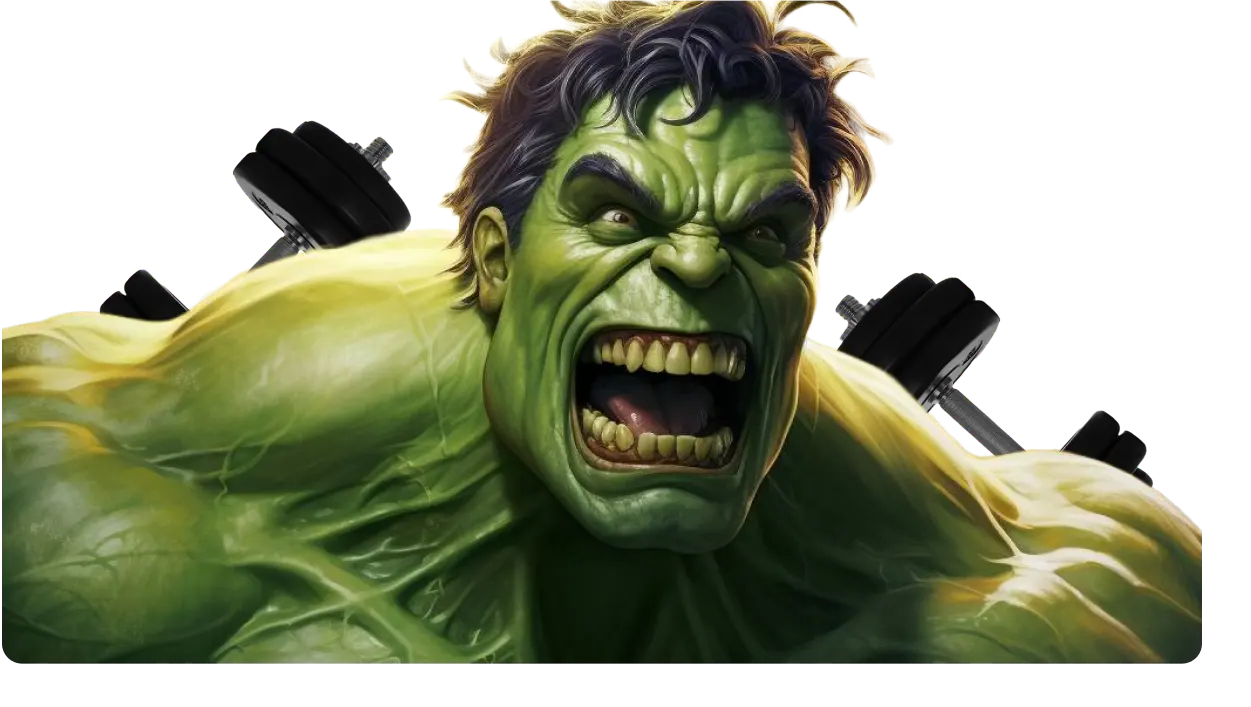
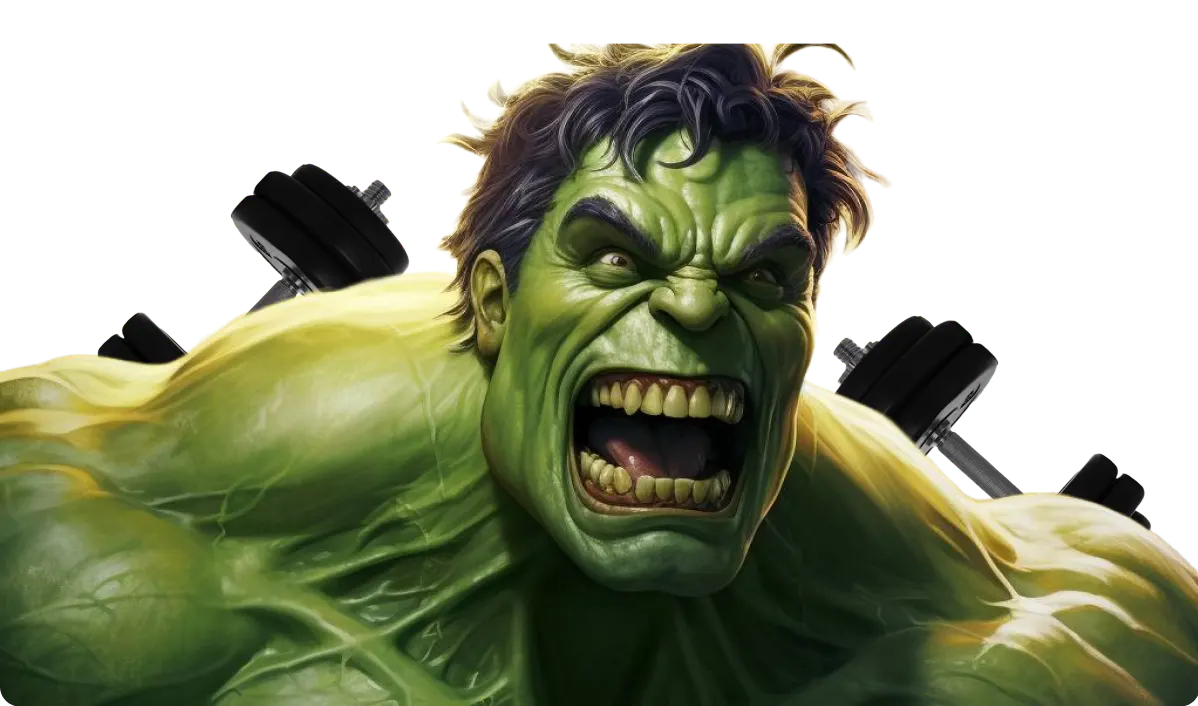
Верстка

diff --git a/components/sections/02Header.tsx b/components/sections/02Header.tsx
@@ -1,14 +1,13 @@
 import {  DRUK_WIDE } from "@/pages/_app";
 import Image from "next/image";
-import main_mobile from '../../public/img/02Header/main_mobile.png'
-import main from '../../public/img/02Header/main.png'
-import coin_1 from '../../public/img/02Header/coin_1.png'
-import coin_2 from '../../public/img/02Header/coin_2.png'
-import coin_3 from '../../public/img/02Header/coin_3.png'
-import coin_4 from '../../public/img/02Header/coin_4.png'
-import bg from '../../public/img/bg.png'
-import menu from '../../public/img/02Header/menu.png'
-import menu_mobile from '../../public/img/02Header/menu_mobile.png'
+import main_mobile from '../../public/img/02Header/main_mobile.webp'
+import main from '../../public/img/02Header/main.webp'
+import coin_1 from '../../public/img/02Header/coin_1.webp'
+import coin_2 from '../../public/img/02Header/coin_2.webp'
+import coin_3 from '../../public/img/02Header/coin_3.webp'
+import coin_4 from '../../public/img/02Header/coin_4.webp'
+import menu from '../../public/img/02Header/menu.webp'
+import menu_mobile from '../../public/img/02Header/menu_mobile.webp'
 import burger from '../../public/img/02Header/burger.svg'
 import cross from '../../public/img/02Header/cross.svg'
 import { useState } from "react";
@@ -20,27 +19,27 @@ export default function Header(){
     return(
         <section id="02Header" className="_section relative bg-_green p-1 md:p-4">
             <div className="relative flex flex-col bg-_black rounded-3xl">
-                <div className="absolute _animate-moveDown -top-1/4 -left-1 md:-left-4 h-full md:h-[130%] w-full md:bg-[url('/img/eclipse.png')] bg-[url('/img/eclipse_mobile.png')] bg-contain bg-left bg-no-repeat"></div>
-                <div className="absolute _animate-moveUp bottom-0 -right-1 md:-right-4 scale-x-[-1] h-full md:h-[130%] w-full md:bg-[url('/img/eclipse.png')] bg-[url('/img/eclipse_mobile.png')] bg-contain bg-left bg-no-repeat"></div>
+                <div className="absolute _animate-moveDown -top-1/4 -left-1 md:-left-4 h-full md:h-[130%] w-full md:bg-[url('/img/eclipse.webp')] bg-[url('/img/eclipse_mobile.webp')] bg-contain bg-left bg-no-repeat"></div>
+                <div className="absolute _animate-moveUp bottom-0 -right-1 md:-right-4 scale-x-[-1] h-full md:h-[130%] w-full md:bg-[url('/img/eclipse.webp')] bg-[url('/img/eclipse_mobile.webp')] bg-contain bg-left bg-no-repeat"></div>
                 <div className="_wrapper w-full">
                     <div className="flex justify-between my-4 md:my-8 xl:my-10">
                         <div className="">
                             <Social />
                         </div>
 
-                        <div className="flex flex-col justify-center pb-1 relative z-40" onClick={()=> setIsHidden(false) }>
+                        <div className="flex flex-col justify-center pb-1 relative z-40 cursor-pointer" onClick={()=> setIsHidden(false) }>
                             <Image src={burger} alt="Menu" className="w-[39px] md:w-auto"/>
                         </div>
                     </div>
                 </div>
 
                 {/* Выдвижное меню */}
-                <div className={`${isHidden ? 'hidden' : 'block'} absolute z-50 top-0 left-0 w-full min-h-screen bg-_green md:bg-[url('/img/02Header/menu.png')] bg-[url('/img/02Header/menu_mobile.png')] bg-cover bg-bottom md:bg-right-bottom bg-no-repeat rounded-b-2xl `}>
-                {/* bg-_green md:bg-[url('/img/02Header/menu.png')] bg-[url('/img/02Header/menu_mobile.png')] bg-cover bg-bottom md:bg-right-bottom bg-no-repeat */}
-                    <div className="relative">
-                        {/* <Image src={menu} alt="" className="absolute hidden md:block bottom-0 right-0 w-full" />
-                        <Image src={menu_mobile} alt="" className="absolute md:hidden bottom-0 right-0 w-full" /> */}
-                        <menu className={`${DRUK_WIDE} _wrapper text-[40px] sm:text-[48px] md:text-[56px] lg:text-[60px] xl:text-[66px] text-black`}>
+                <div className={`${isHidden ? 'hidden' : 'block'} absolute z-50 top-0 left-0 w-full min-h-screen bg-_green rounded-b-2xl `}>
+                {/* md:bg-[url('/img/02Header/menu.webp')] bg-[url('/img/02Header/menu_mobile.webp')] bg-cover bg-bottom md:bg-right-bottom bg-no-repeat */}
+                    <div className="">
+                        <Image src={menu} alt="" className="absolute max-w-[1200px] hidden md:block bottom-0 right-0 w-full" />
+                        <Image src={menu_mobile} alt="" className="absolute md:hidden bottom-0 right-0 w-full" />
+                        <menu className={`${DRUK_WIDE} _wrapper relative z-50 text-[40px] sm:text-[48px] md:text-[56px] lg:text-[60px] xl:text-[66px] text-black`}>
                             <li className="flex justify-end py-[13px] sm:py-[26px] md:py-[39px]">
                                 <Image className="cursor-pointer w-[30px] h-[30px] sm:w-[49px] sm:h-[49px]" src={ cross } alt="menu-toggle" onClick={()=> setIsHidden(true) }/>
                             </li>
@@ -68,7 +67,7 @@ export default function Header(){
 
                     <div className="mt-8 w-full pb-16 md:pb-[5%] md:px-[5%]">
                         <div className="relative z-20 w-auto h-auto">
-                            <div className="absolute w-full h-[200%] md:h-[140%] -z-50 bottom-0 bg-[url('/img/bg.png')] bg-contain bg-no-repeat bg-bottom">
+                            <div className="absolute w-full h-[200%] md:h-[140%] -z-50 bottom-0 bg-[url('/img/bg.webp')] bg-contain bg-no-repeat bg-bottom">
 
                             </div>
                             <Image src={main} alt="hulk" className="hidden md:block relative z-40" />

diff --git a/components/sections/07Feedback.tsx b/components/sections/07Feedback.tsx
@@ -1,15 +1,16 @@
 import Social from "../elements/Social";
 import emailjs from '@emailjs/browser';
 import { useEffect, useState } from "react";
-import hulk from '../../public/img/07Feedback/hulk.png'
-import boom from '../../public/img/07Feedback/boom.png'
+import hulk from '../../public/img/07Feedback/hulk.webp'
+import hulk_mobile from '../../public/img/07Feedback/hulk_mobile.webp'
+import boom from '../../public/img/07Feedback/boom.webp'
 import Image from "next/image";
 import { DRUK_WIDE } from "@/pages/_app";
 import Ticker from "../elements/Ticker";
 
-const SERVICE_ID = 'syndicate' //https://dashboard.emailjs.com/admin
-const TEMPLATE_ID = 'template_cmq5kjj' //https://dashboard.emailjs.com/admin/templates
-const PUBLIC_KEY = 'krMSF_Jadknes5GqU' //https://dashboard.emailjs.com/admin/account
+const SERVICE_ID = 'hulkmemcoach' //https://dashboard.emailjs.com/admin
+const TEMPLATE_ID = 'template_6i84thb' //https://dashboard.emailjs.com/admin/templates
+const PUBLIC_KEY = 'JYRq2-0aVKKk821V_' //https://dashboard.emailjs.com/admin/account
 
 export default function Feedback(){
     const [status, setStatus] = useState<'loading' | 'success' | 'error' | 'default'>('default')
@@ -48,7 +49,7 @@ export default function Feedback(){
                     <div className="mt-6 md:mt-10 w-full text-black text-center _text-16-22 font-extrabold">
                         You can send us your offer!
                     </div>
-                    <form className="relative z-50 p-5 flex flex-col md:flex-row mt-[24px] md:mt-[30px] gap-2.5" onSubmit={sendForm}>
+                    <form className="relative z-50 p-5 flex flex-col md:flex-row mt-[24px] md:mt-[30px] gap-2.5 text-black" onSubmit={sendForm}>
                         <input data-aos="fade-right" data-aos-duration="1500" type="text" className="block md:w-1/3 rounded-[20px] bg-_green md:bg-white px-9 py-4 font-medium text-[16px] border-[1px] border-black placeholder-black" placeholder="Your Project" onChange={(e)=>setName(e.target.value)}/>
                         <input data-aos="fade-right" data-aos-duration="1500" data-aos-delay="200" type="email" className="block md:w-1/3 rounded-[20px] bg-_green md:bg-white px-9 py-4 font-medium text-[16px] border-[1px] border-black placeholder-black" placeholder="Email" onChange={(e)=>setEmail(e.target.value)}/>
                         <button data-aos="fade-right" data-aos-duration="1500" data-aos-delay="400" disabled={status === 'success' || status === 'loading'} type="submit" className={`${status === 'success' ? 'bg-_black' : 'bg-_black'} uppercase block md:w-1/3 rounded-[20px] py-4 text-center font-extrabold text-_green`}>
@@ -60,15 +61,16 @@ export default function Feedback(){
                     </form>
                 </div>
                 <div className="w-full relative pt-[6%]">
-                    <Image src={hulk} alt="HULK" className="w-full relative z-50"/>
+                    <Image src={hulk} alt="HULK" className="hidden md:block w-full relative z-50"/>
+                    <Image src={hulk_mobile} alt="HULK" className="md:hidden w-full relative z-50 rounded-b-5"/>
 
-                    <div className="w-4/5 h-full absolute z-10 bottom-0 left-1/2 -translate-x-1/2 transform  bg-[url('/img/bg.png')] bg-cover bg-top-center">
+                    <div className="w-4/5 h-full absolute z-10 bottom-0 left-1/2 -translate-x-1/2 transform  bg-[url('/img/bg.webp')] bg-cover bg-top-center">
 
                     </div>
                 </div>
             </div>
             <div className="mt-10 md:mt-20">
-                <Ticker />
+                <Ticker left/>
             </div>
             <div className="mt-[34px] md:mt-[47px] pb-10 text-center font-extrabold _text-12-20 ">
                 HULK MEM COACH 2023 Copyright © All Right Reserved

diff --git a/components/sections/04Tokenomics.tsx b/components/sections/04Tokenomics.tsx
@@ -34,11 +34,11 @@ export default function Tokenomics(){
                 Copied!
             </div>}
 
-            <div className="hidden md:block w-full h-[150%] absolute -bottom-1/4 -z-50 bg-[url('/img/eclipse.png')] bg-contain bg-no-repeat"></div>
-            <div className="hidden md:block w-full scale-x-[-1] h-[150%] absolute -top-1/2 -z-50 bg-[url('/img/eclipse.png')] bg-contain bg-no-repeat"></div>
-            <div className="md:hidden w-full h-full absolute left-0 -top-1/4 -z-50 bg-[url('/img/eclipse_mobile.png')] bg-left-top bg-contain bg-no-repeat"></div>
-            <div className="md:hidden w-full h-full absolute right-0 -bottom-[20%] scale-x-[-1] -z-50 bg-[url('/img/eclipse_mobile.png')] bg-left-bottom bg-contain bg-no-repeat"></div>
-            {/* <div className="md:hidden w-full h-full absolute left-0 -bottom-1/4 -z-50 bg-[url('/img/04Tokenomics/eclipse_l_b_mobile.png')] bg-left-bottom bg-contain bg-no-repeat"></div> */}
+            <div className="hidden md:block w-full h-[150%] absolute -bottom-1/4 -z-50 bg-[url('/img/eclipse.webp')] bg-contain bg-no-repeat"></div>
+            <div className="hidden md:block w-full scale-x-[-1] h-[150%] absolute -top-1/2 -z-50 bg-[url('/img/eclipse.webp')] bg-contain bg-no-repeat"></div>
+            <div className="md:hidden w-full h-full absolute left-0 -top-1/4 -z-50 bg-[url('/img/eclipse_mobile.webp')] bg-left-top bg-contain bg-no-repeat"></div>
+            <div className="md:hidden w-full h-full absolute right-0 -bottom-[20%] scale-x-[-1] -z-50 bg-[url('/img/eclipse_mobile.webp')] bg-left-bottom bg-contain bg-no-repeat"></div>
+            {/* <div className="md:hidden w-full h-full absolute left-0 -bottom-1/4 -z-50 bg-[url('/img/04Tokenomics/eclipse_l_b_mobile.webp')] bg-left-bottom bg-contain bg-no-repeat"></div> */}
 
             <div className="_wrapper">
             <h2 className={`${DRUK_WIDE} _h`}>
@@ -63,7 +63,7 @@ export default function Tokenomics(){
                             Liquidity locked up for a 1 year
                         </div>
                     </div>
-                    <div className="md:col-span-2 md:order-none order-last bg-_green-dark rounded-5 p-[30px] md:p-10" onClick={copy}>
+                    <div className="cursor-pointer md:col-span-2 md:order-none order-last bg-_green-dark rounded-5 p-[30px] md:p-10" onClick={copy}>
                         <div>
                             <Image className="inline mr-4 mb-3" src={contract} alt="icon"/><p className="inline _text-20-28 font-extrabold">Smart Contract</p>
                         </div>

diff --git a/components/sections/03Mission.tsx b/components/sections/03Mission.tsx
@@ -1,5 +1,5 @@
 import Image from "next/image";
-import coin from '../../public/img/03Mission/coin.png'
+import coin from '../../public/img/03Mission/coin.webp'
 import { DRUK_WIDE } from "@/pages/_app";
 
 export default function Mission(){
@@ -7,7 +7,7 @@ export default function Mission(){
         <section id="03Mission" className="_section overflow-hidden pb-[90px]">
             <div className="_wrapper pt-20 mt-20 relative flex flex-col justify-between gap-y-10 ">
 
-                <div className="absolute w-full h-full -z-50  left-1/2 transform -translate-x-1/2 mx-auto  bg-[url('/img/bg.png')] bg-center bg-contain bg-no-repeat"></div>
+                <div className="absolute w-full h-full -z-50  left-1/2 transform -translate-x-1/2 mx-auto  bg-[url('/img/bg.webp')] bg-center bg-contain bg-no-repeat"></div>
 
                 <p className={`${DRUK_WIDE} leading-none _text-18-40 w-full block text-center uppercase`}>
                     <span className="text-_green">HULK MEM COACH</span> <br />
@@ -18,7 +18,7 @@ export default function Mission(){
                 </p>
                 <div className="relative mx-auto w-auto h-auto flex flex-col justify-center">
                     {/* <div className="absolute -z-50 rounded-full w-full h-full bg-_green animate-ping"></div> */}
-                    <Image src={coin} alt="Frog" className="block mx-auto _animate-scale"/>
+                    <Image src={coin} alt="Frog" className="block w-1/2 md:w-[263px] mx-auto _animate-scale"/>
                 </div>
                 
 

diff --git a/pages/index.tsx b/pages/index.tsx
@@ -10,10 +10,10 @@ export default function Home() {
   return (
         <>
             <Head>
-                <title>HULK</title>
+                <title>HULK MEM COACH</title>
                 <meta httpEquiv="content-language" content="en" />
                 <meta name="description" content="HULK MEM COACH is a fast growing community aiming to become one of the most popular  in the crypto world" />
-                <link rel="shortcut icon" href="/img/favicon.ico" />
+                <link rel="shortcut icon" href="/img/favicon.png" />
             </Head>
             
             <Header />
